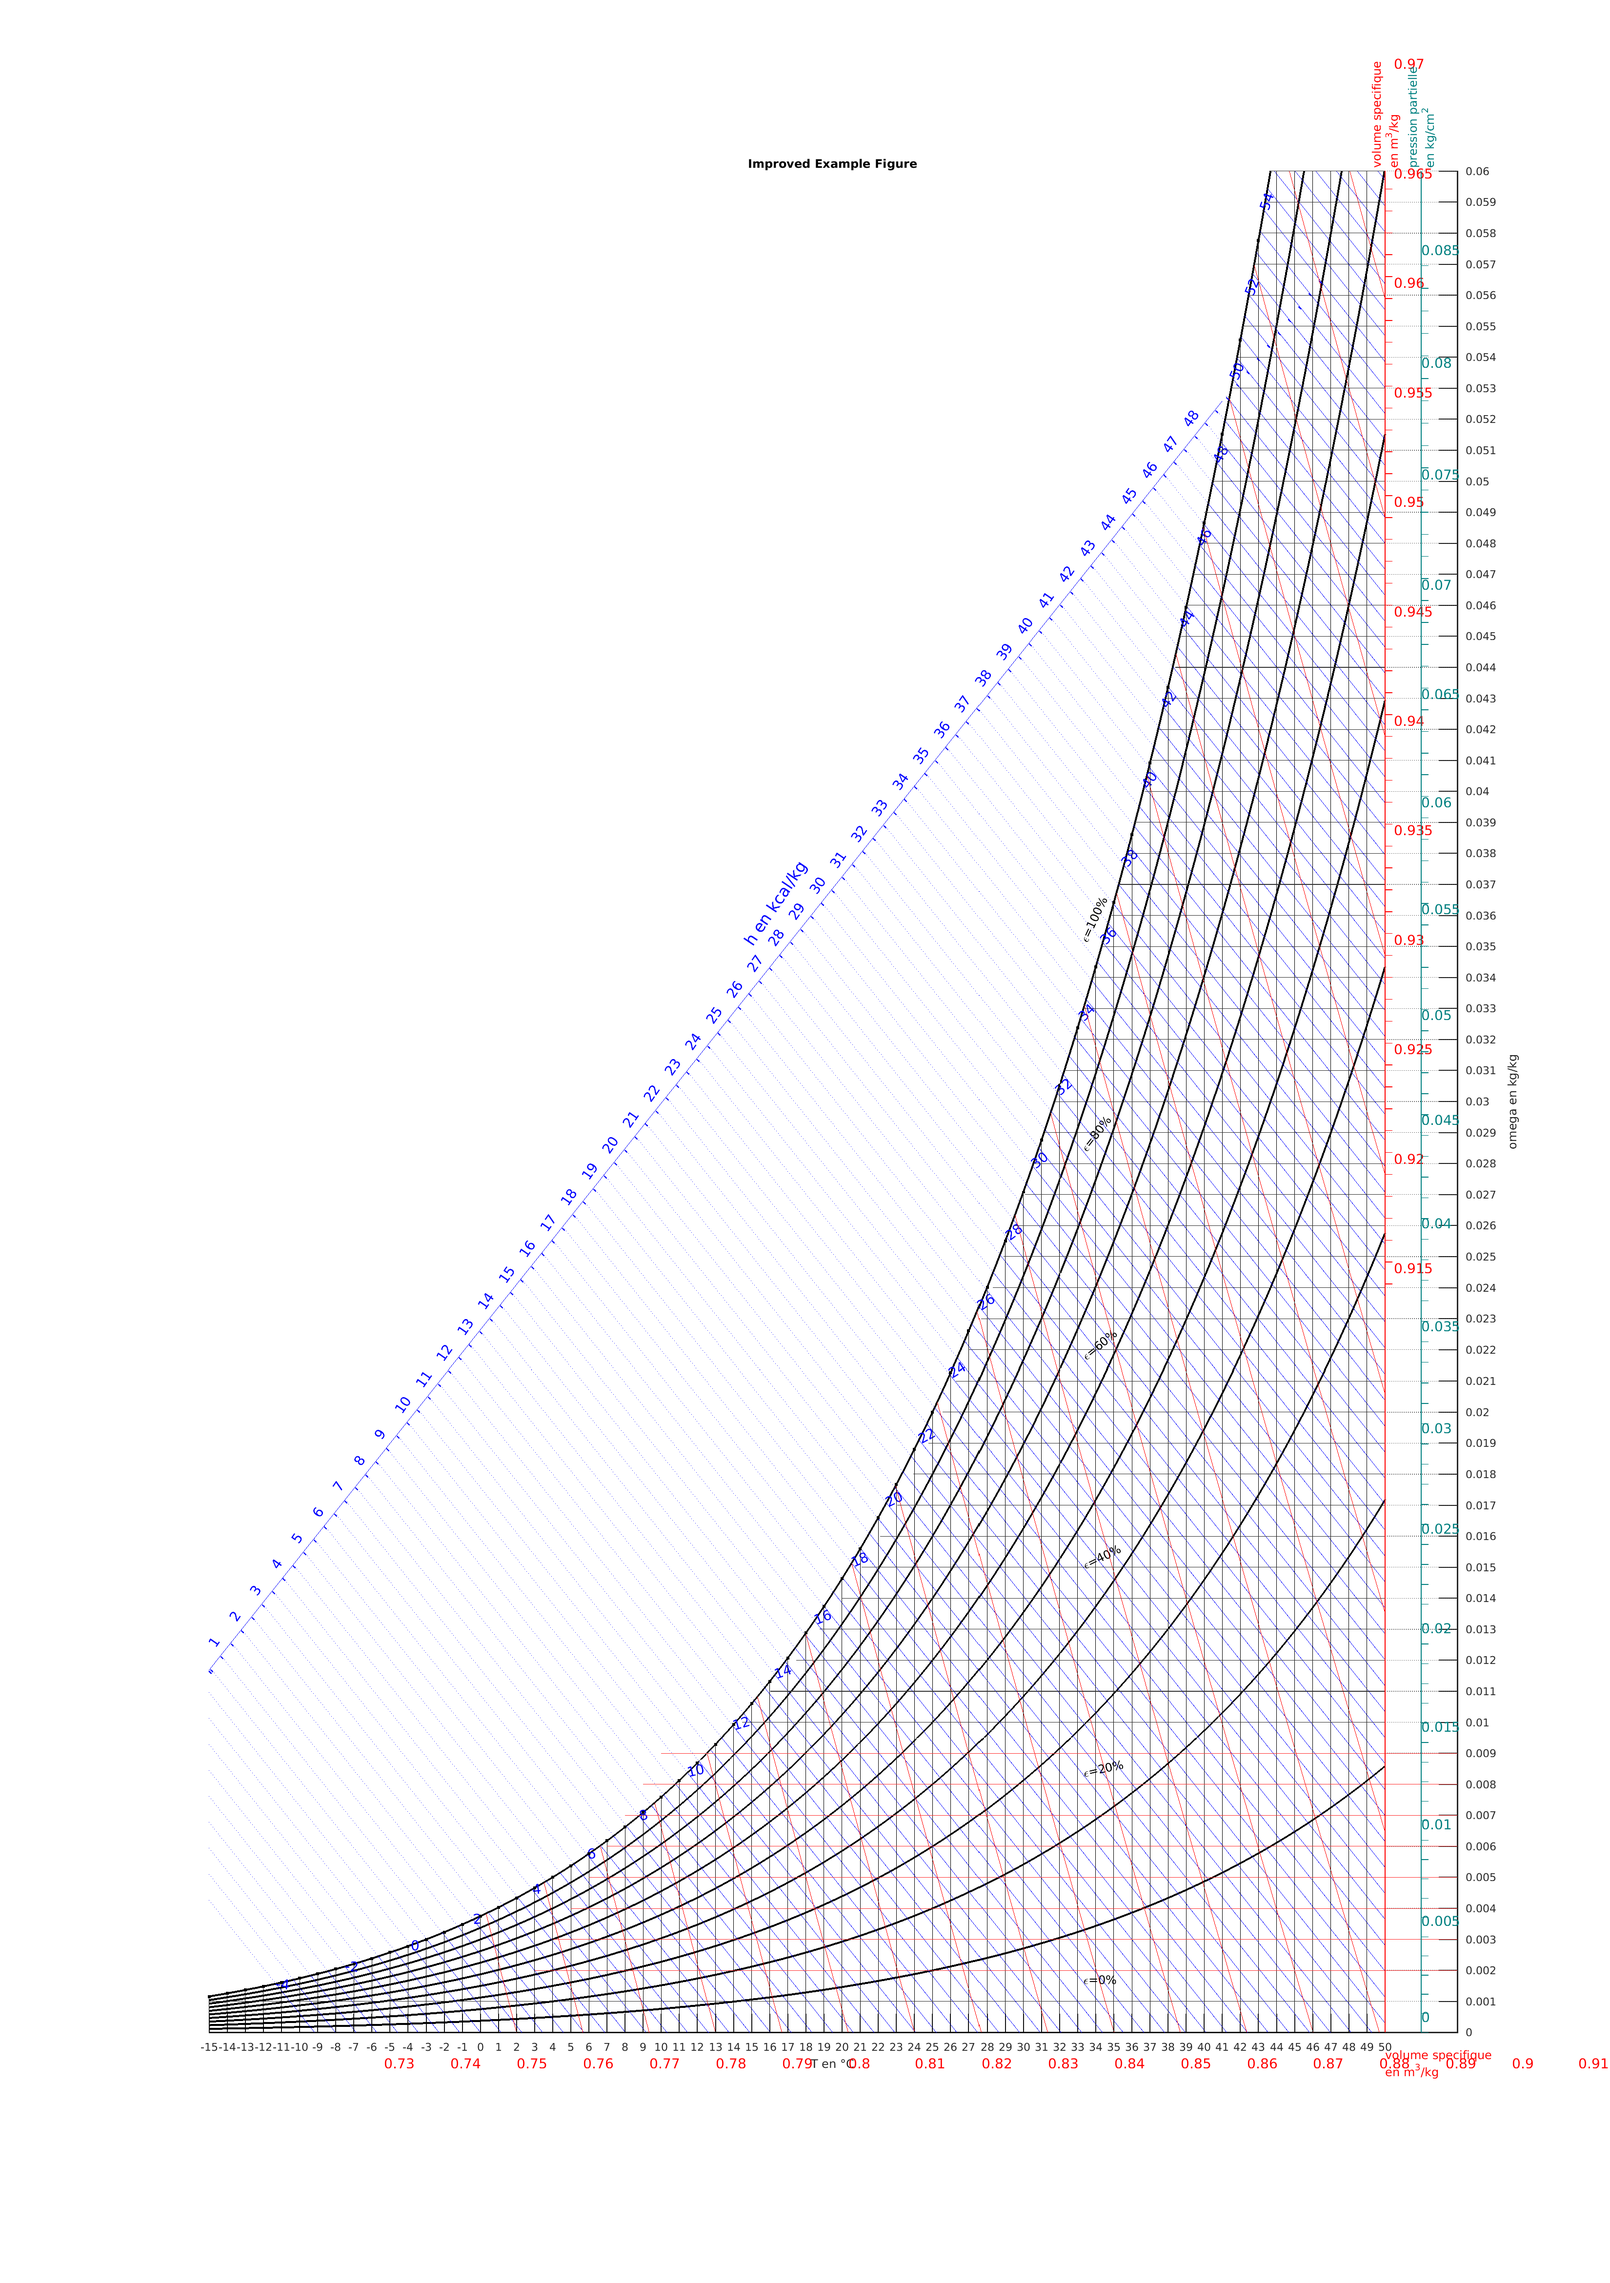
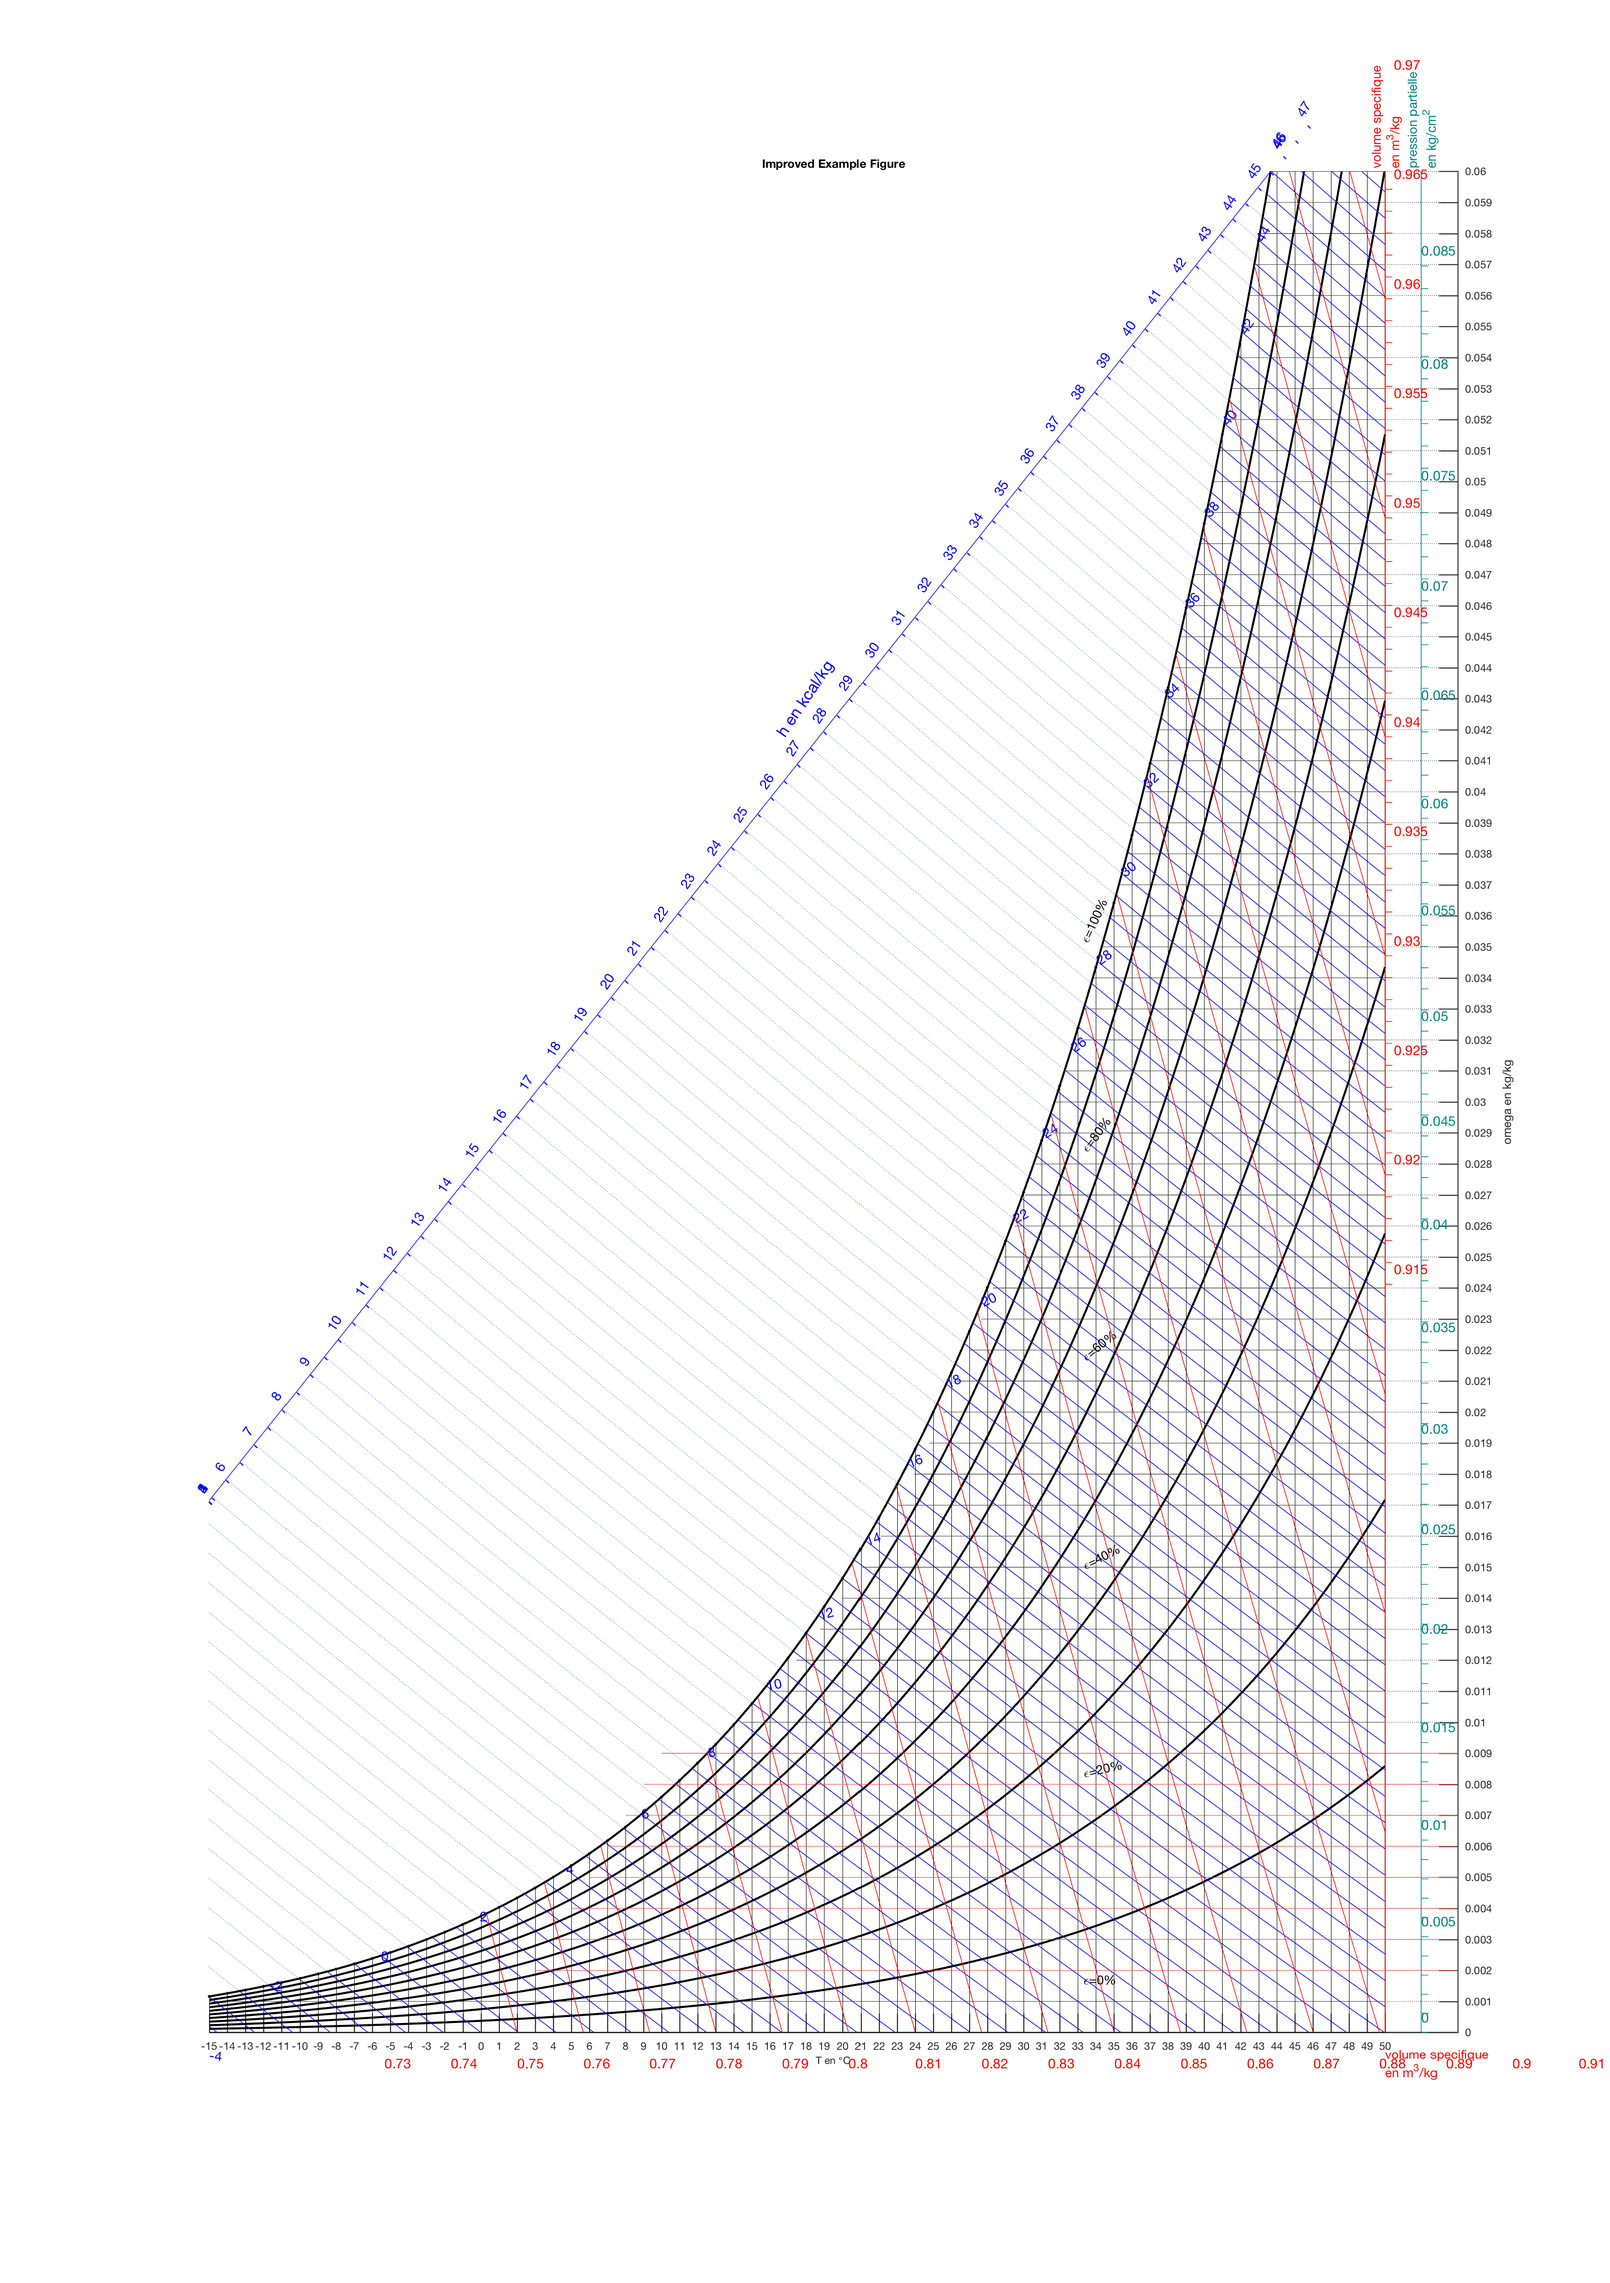
Retouches
Erreur 164 retirée, plus optimisation

Changed region(s): [[0.1248, 0.0312, 0.9364, 0.9047], [0.4994, 0.2808, 0.5306, 0.312], [0.4682, 0.3744, 0.4994, 0.4056]]

diff --git a/test.m b/test.m
@@ -1,29 +1,98 @@
-clc
+clc 
 clear all 
-close all 
+close all
 
-hold all
-X=[0:1:10];
-% create the plot/graph
-plot(X,10*X);
-% GET handle to current axes and move the plot axes to the bottom
-% 
-% ha =gca;
-% uistack(ha,'bottom');
-% % Creating a new axes for the logo on the current axes
-% % To create the logo at the bottom left corner of the plot use 
-% % the next two lines
-% haPos = get(ha,'position');
-% ha2=axes('position',[haPos(1:2), .1,.04,]);
-% % To place the logo at the bottom left corner of the figure window
-% % uncomment the line below and comment the above two lines
-% % ha2=axes('position',[0, 0, .1,.04,]);
-% % Adding a LOGO to the new axes
-% 
+%% Debut courbes de sat
 
-% image(x)
-% % Setting the colormap to the colormap of the imported logo image
-% colormap (map)
-% % Turn the handlevisibility off so that we don't inadvertently plot
-% % into the axes again. Also, make the axes invisible
-% set(ha2,'handlevisibility','off','visible','off')  ], x);
+
+% Hypotheses :
+Ptot=101325; %Pa
+
+
+% Constantes
+Cp_as = 1.005 % kJ/kg/K (the engineering toolbox)
+Cp_eau = 4.180   %kJ/kg/K (the engineering toolbox)
+Lv_eau = 2257.92 % kJ/kg
+Cpair_humide=1040; %J/kg/K    %Cpair_humide= %air Cpair + %eau Cpeau (Cpeau~4180 J/kg/K Cpair=1005 J/kg/K)
+R=8,3144621; %J/mol/K
+Mas= 28.96546*10^-3 ; %kg/mol
+Mv= 18.01528*10^-3 ; 
+
+hlg = 2501000; %J/kg
+cw  = 1860;
+
+% Variables
+Tmin=-15;
+Tmax=50;
+Tmax_affiche=Tmax+4; %valeur de temperature pour l'affichage et non pas pour le calul
+Tmin_affiche=Tmin+4;
+
+T=[Tmin:0.01:Tmax]; %T augmente de 1 degre par pas de 100
+
+%% Trace de omega en fct de T
+
+
+Pvs_min=pression_vapPa(Tmin);
+Pvs_max=pression_vapPa(Tmax);
+
+omega_max=0.621945*(Pvs_max./(Ptot-Pvs_max)); 
+
+vs_min= ((Mv/Mas)) * (R*(Tmin+273.15)/(Ptot*Mv));  
+vs_max=((Mv/Mas)+omega_max) * (R*(Tmax+273.15)/(Ptot*Mv)); 
+
+Pvs=pression_vapPa(T);
+omega=0.621945.*(Pvs./(Ptot-Pvs)); % vient de psychrometric news
+
+pressions_partiellesPa=pressionpartielle_fomega(omega,Ptot);
+pressions_partielleskgcm2=pressions_partiellesPa.*1E-5;
+
+
+    
+%% Trace de la courbe de saturation
+
+Pvs=pression_vapPa(T);
+courbe_sat=0.621945.*(Pvs./(Ptot-Pvs));
+ 
+Tlegende=2*Tmax/3;
+Pvs_legende=pression_vapPa(Tlegende);
+courbe_sat_legende=0.621945.*(Pvs_legende./(Ptot-Pvs_legende));
+
+pas=0.2;
+for i=0:pas:1
+    plot(T, i*courbe_sat, '-k')
+    n=i*100;
+    str=['\epsilon=' num2str(n) '%'];
+    xt=Tlegende;
+    yt=(i*courbe_sat_legende)+(0.0007)*exp(i/2); 
+    text(xt,yt+0.001,str,'FontSize',10,'Color','black','rotation',65*i)
+
+end 
+
+%'Extent',[xt-1 yt-0.0015 3 0.003] pour tracer un carr?? blanc autour du
+%texte mais ca marche pas
+
+%legend('f(x)', 'g(x)', 'f(x)=g(x)', 'Location', 'NorthWest');
+
+
+title('Improved Example Figure');
+
+%% courbes isenthalpes 
+
+%pente pour tracer ensuite l'echelle transversale
+pente_ech_H=1/2500*1.826;
+
+Ech_h=pente_ech_H*(T+31); %droite d'echelle
+
+%le 31 est a revoir pour optimiser au mieux l'intersection de l'axe et du bord de l'image 
+
+%%%%%%%%%%%%%%%%%%%%%%%% Axe enthalpie %%%%%%%%%%%%%%%%%%%
+
+
+
+for h = -4:0.5:60 %nombre de droites, intervalle d'enthalpies
+    
+    h = 4.184*h; %conversion du compteur dans la bonne unite
+    iso_h(1,:) = (h-Cp_as*T)./(Lv_eau+Cp_eau*T);  % fle de psychrometric news
+    iso_h(2,:) = 1/2500*(h-1.826*T);
+end 
+

diff --git a/main_fonctionnel.m b/main_fonctionnel.m
@@ -288,18 +288,18 @@ set(FigHandle, 'Position', [100, 100, 1000, 1200]); %apercu de l'image finale au
 
 %% Logo Phelma 
 
-% A enlever du mode commentaire pour sauvergarder l'image
-
-%         Here we preserve the size of the image when we save it.
-        set(gcf,'InvertHardcopy','on');
-            set(gcf,'PaperUnits', 'inches');
-            papersize = get(gcf, 'PaperSize');
-            left = (papersize(1)- width)/2;
-            bottom = (papersize(2)- height)/2;
-            myfiguresize = [left, bottom, width, height];
-            set(gcf,'PaperPosition', myfiguresize);
-        
-%         Save the file as PNG
-%         r300 correspond a la definition
-        print('Diagramme','-dpng','-r200');
+% % A enlever du mode commentaire pour sauvergarder l'image
+% 
+% %         Here we preserve the size of the image when we save it.
+%         set(gcf,'InvertHardcopy','on');
+%             set(gcf,'PaperUnits', 'inches');
+%             papersize = get(gcf, 'PaperSize');
+%             left = (papersize(1)- width)/2;
+%             bottom = (papersize(2)- height)/2;
+%             myfiguresize = [left, bottom, width, height];
+%             set(gcf,'PaperPosition', myfiguresize);
+%         
+% %         Save the file as PNG
+% %         r300 correspond a la definition
+%         print('Diagramme','-dpng','-r200');
 

diff --git a/affichage_logo.m b/affichage_logo.m
@@ -4,7 +4,7 @@ close all
 
 [scene,palette1]=imread('Diagramme.png');
 
-[obj,palette2]=imread('phelma.png');
+[obj,palette2]=imread('logo.jpg');
 obj=imresize(obj,4);
 [largeur, longueur]=size(obj)
 
@@ -12,8 +12,8 @@ obj=imresize(obj,4);
 % Now replace pixels in the scene with the object image
 result = scene;
 %   Define where you want to place the object image in the scene
-rowshift = 200; % décalage depuis le haut
-colshift = 300; % décalage depuis la gauche
+rowshift = 200; % d??calage depuis le haut
+colshift = 300; % d??calage depuis la gauche
 %   Perform the actual indexing to replace the scene's pixels with the object
 result((1:largeur)+rowshift, (1:longueur)+colshift) = obj;
 %   Display the results
